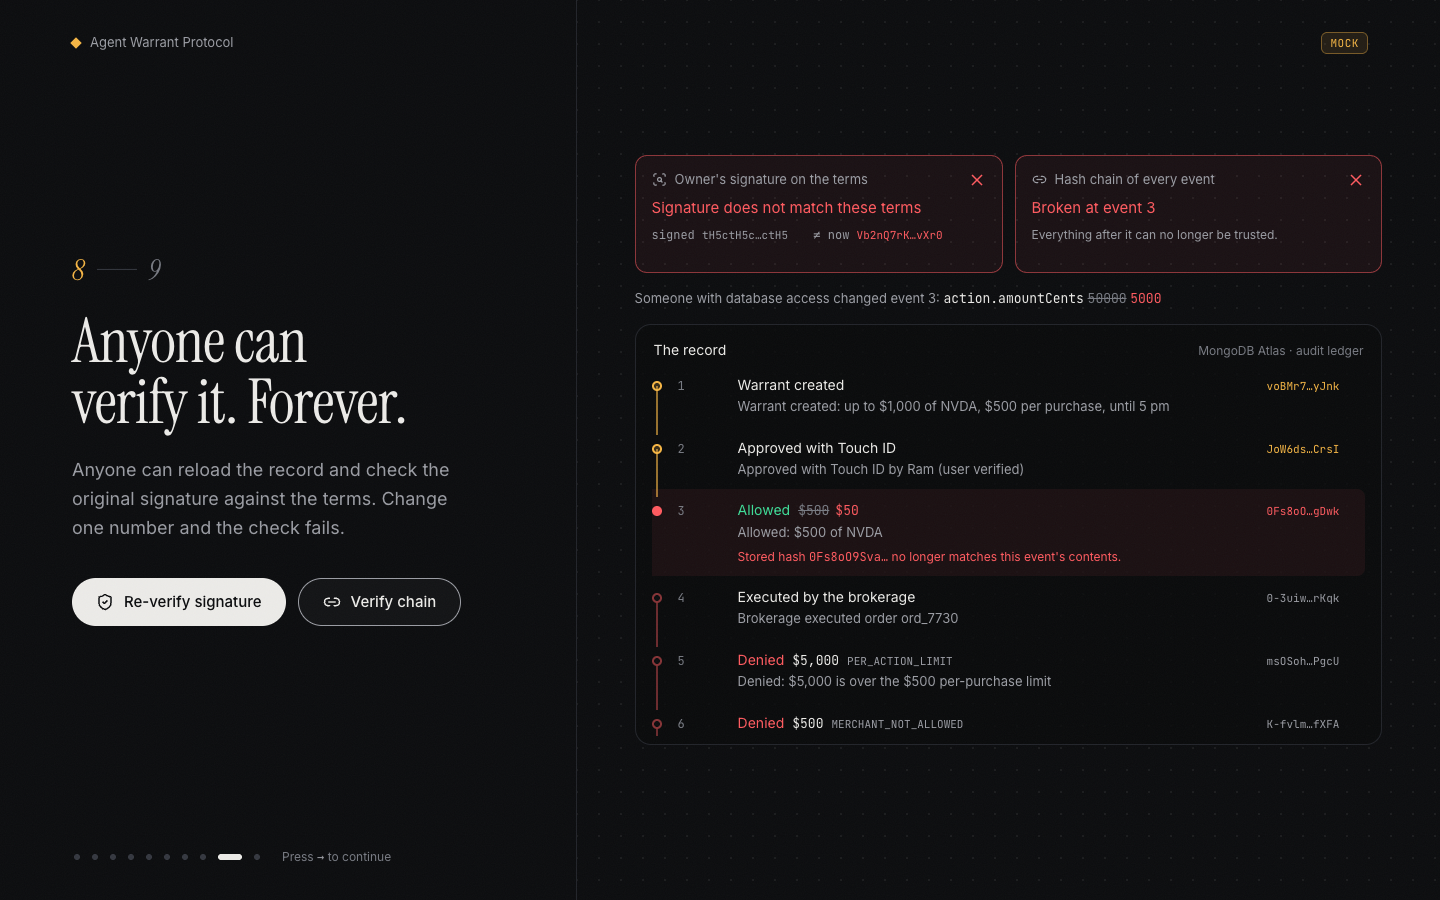
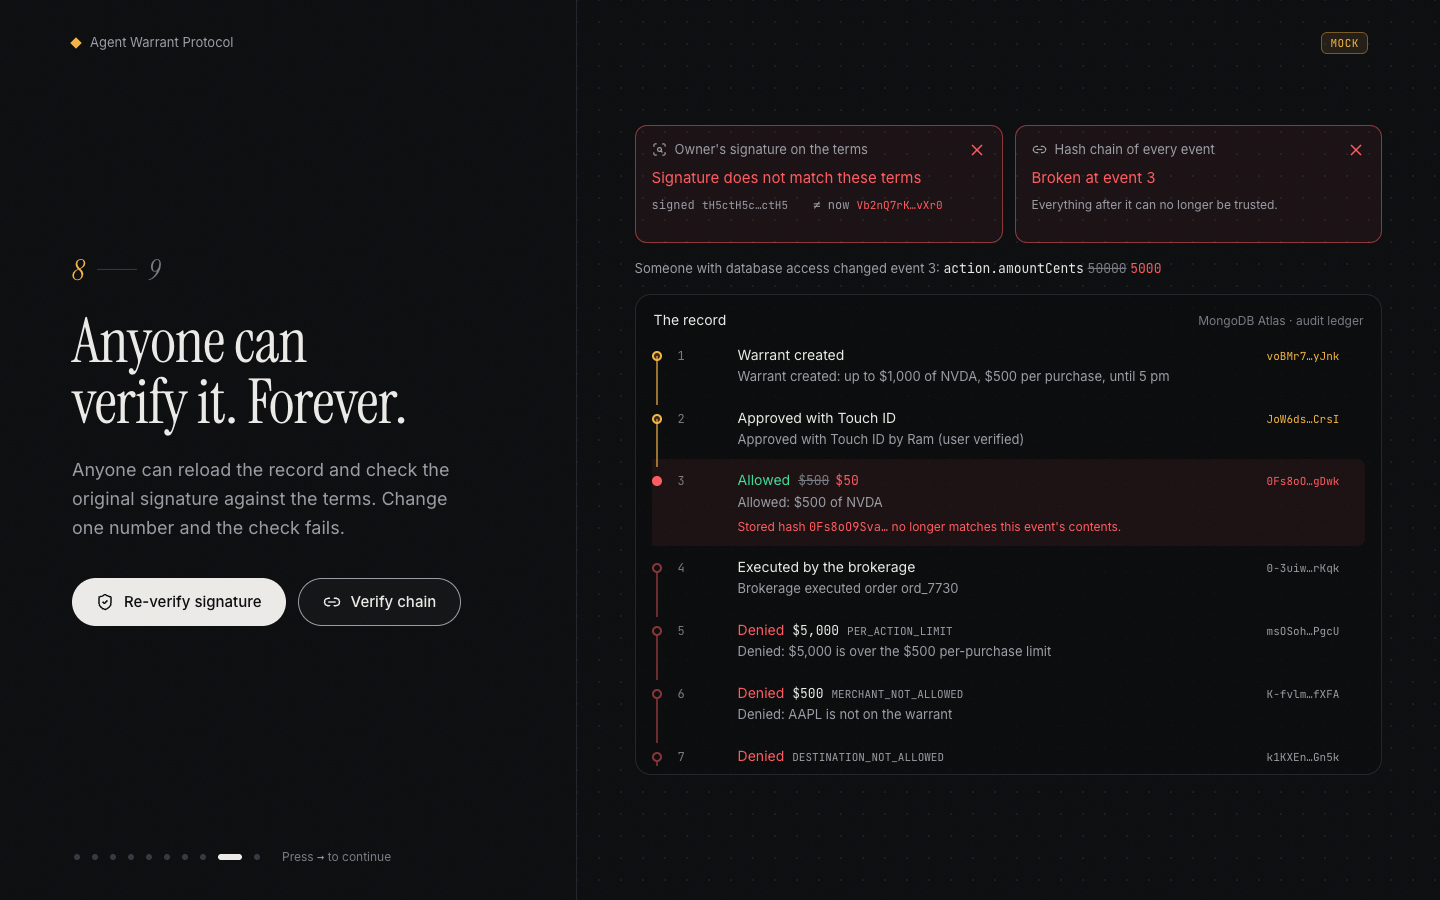
Story chapter 8: scroll only the timeline to the broken link

diff --git a/story/src/chapters/Ch8.tsx b/story/src/chapters/Ch8.tsx
@@ -88,13 +88,16 @@ function Timeline({ events, verify, tampered }: { events: AuditEvent[]; verify: 
   const state = (seq: number): ChainState =>
     !verify ? "idle" : broken === null ? "ok" : seq < broken ? "ok" : seq === broken ? "broken" : "after";
   const brokenRef = useRef<HTMLLIElement>(null);
+  const listRef = useRef<HTMLOListElement>(null);
   useEffect(() => {
-    if (broken !== null) brokenRef.current?.scrollIntoView({ block: "center", behavior: "smooth" });
+    // scroll only the timeline (scrollIntoView would also move the stage)
+    const li = brokenRef.current, ol = listRef.current;
+    if (broken !== null && li && ol) ol.scrollTo({ top: li.offsetTop - ol.clientHeight / 2 + li.clientHeight / 2, behavior: "smooth" });
   }, [broken]);
 
   const rows = group(events);
   return (
-    <ol className="scroll-quiet relative max-h-[min(440px,48vh)] overflow-y-auto pr-2">
+    <ol ref={listRef} className="scroll-quiet relative max-h-[min(440px,48vh)] overflow-y-auto pr-2">
       {rows.map((r, i) => {
         if (r.kind === "burst") {
           const first = r.events[0].seq, last = r.events[r.events.length - 1].seq;
